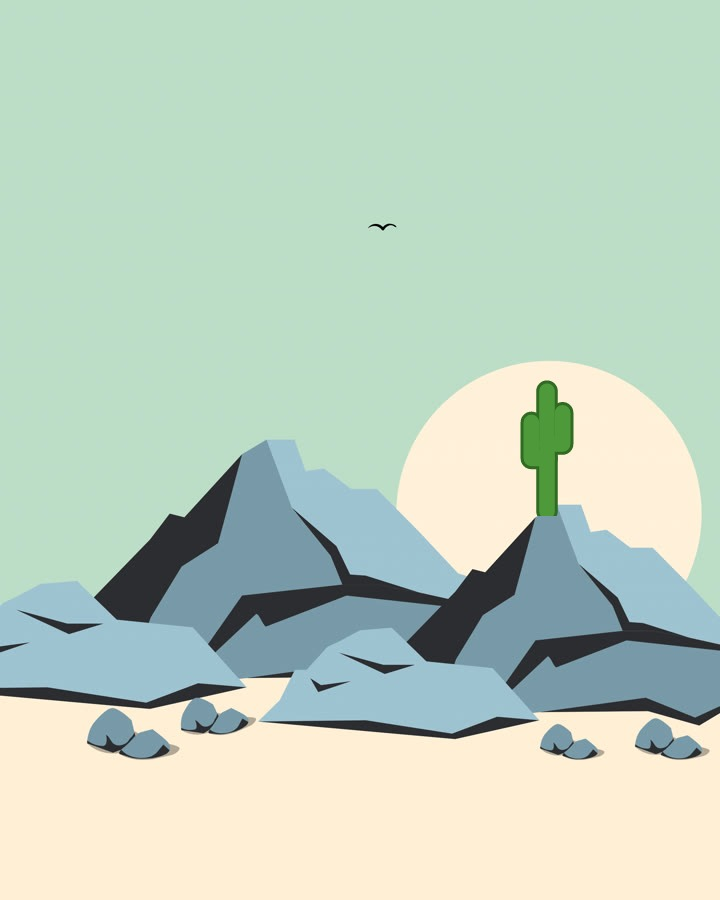
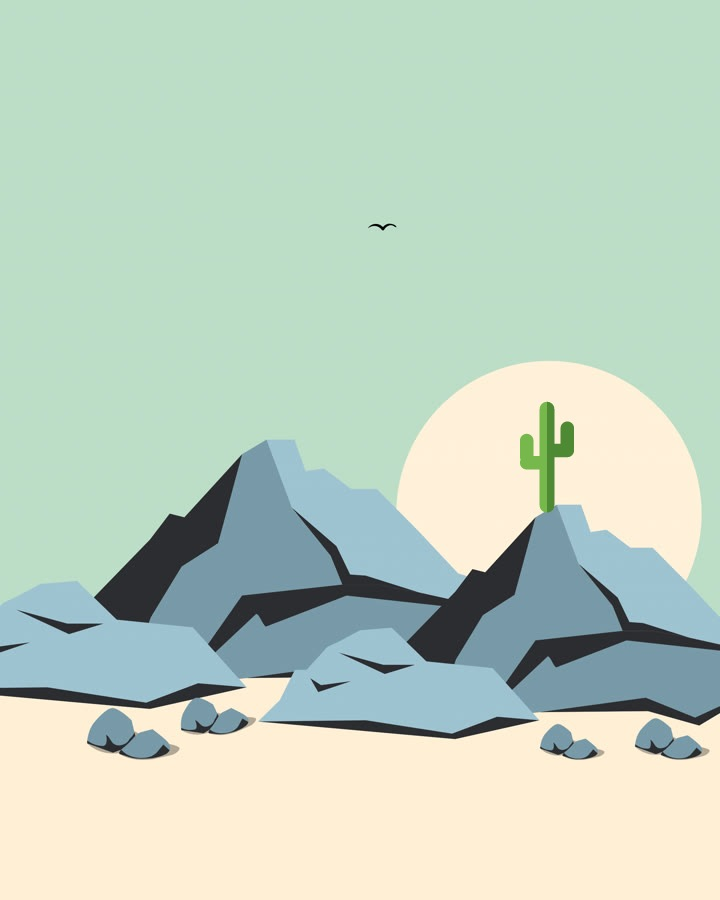
Update audio files, add new puzzle images, and enhance game logic
- Updated multiple audio files with new versions.
- Added new images for puzzles: hedgehogs, house, mountains, room, and valley.
- Improved game logic in PickGame, ConnectDots, OrderSize, Sorting, and diffPairs to prevent repeated selections.
- Enhanced CSS styles for better layout and responsiveness, including safe area insets and grid adjustments.

Changed region(s): [[0.7028, 0.4044, 0.7944, 0.5911]]

diff --git a/src/styles.css b/src/styles.css
@@ -46,6 +46,13 @@ body {
   flex-direction: column;
 }
 
+/* Keep content clear of notches, rounded corners and the home indicator. The
+   fixed gradient on <html> still fills those inset areas edge-to-edge. */
+.app {
+  padding: env(safe-area-inset-top) env(safe-area-inset-right)
+    env(safe-area-inset-bottom) env(safe-area-inset-left);
+}
+
 button {
   font-family: inherit;
   cursor: pointer;
@@ -90,10 +97,12 @@ button:focus-visible {
 }
 .grid {
   display: grid;
-  grid-template-columns: repeat(auto-fit, 150px);
-  justify-content: start;
-  gap: clamp(12px, 2.5vw, 24px);
-  width: min(900px, 100%);
+  /* Cards flex between ~118px (small phones fit 2+ columns) and 150px, filling
+     the row so nothing is left dangling in a lonely column. */
+  grid-template-columns: repeat(auto-fill, minmax(clamp(118px, 42vw, 150px), 1fr));
+  justify-content: center;
+  gap: clamp(10px, 2.5vw, 22px);
+  width: 100%;
 }
 .card {
   --c: var(--purple);
@@ -213,10 +222,15 @@ button:focus-visible {
 /* ---------- GAME BODY ---------- */
 .game-body {
   flex: 1;
+  min-height: 0;
   display: flex;
   flex-direction: column;
   align-items: center;
-  justify-content: center;
+  /* Centre when it fits; if a busy round (e.g. 6 choices) is taller than a short
+     screen, fall back to top-aligned + scroll instead of clipping. */
+  justify-content: safe center;
+  overflow-y: auto;
+  overscroll-behavior: contain;
   gap: clamp(16px, 4vh, 36px);
   padding: 12px;
 }
@@ -517,10 +531,17 @@ button:focus-visible {
 /* Spot-the-difference: two picture-grids side by side. */
 .spot-pair {
   display: flex;
-  gap: clamp(12px, 4vw, 36px);
+  gap: clamp(6px, 2vw, 28px);
   justify-content: center;
-  align-items: center;
-  flex-wrap: wrap;
+  align-items: flex-start;
+  flex-wrap: nowrap; /* keep the two pictures side by side so both are visible */
+  width: 100%;
+}
+/* In the pair, each picture is sized so two fit across the screen (they override
+   the larger single-scene width used by the Puzzle game). */
+.spot-pair .scene {
+  width: clamp(130px, 45vw, 340px);
+  flex: 0 1 auto;
 }
 .scene {
   position: relative;

diff --git a/src/components/PickGame.tsx b/src/components/PickGame.tsx
@@ -1,4 +1,4 @@
-import { ReactNode, useEffect, useState } from 'react'
+import { ReactNode, useEffect, useRef, useState } from 'react'
 import { TopBar } from './TopBar'
 import { DoneScreen } from './DoneScreen'
 import { Reward } from './Reward'
@@ -37,11 +37,26 @@ type Props = {
 export function PickGame({ title, onBack, makeRound, levelOptions, intro }: Props) {
   const [level, setLevel] = useState(0)
   const [index, setIndex] = useState(0)
-  const [round, setRound] = useState<Round>(() => makeRound(levelOptions[0], 0))
+  // Targets already asked this run, so the same one isn't asked twice in a row
+  // of rounds (e.g. "bej, roz, bej"). Resets once every target has been used.
+  const usedAnswers = useRef<Set<string>>(new Set())
+  const [round, setRound] = useState<Round>(() => freshRound(levelOptions[0], 0))
   const [reward, setReward] = useState(false)
   const [wrongKey, setWrongKey] = useState<string | null>(null)
   const options = levelOptions[level]
   const done = index >= ROUNDS_PER_GAME
+
+  // Build a round whose target hasn't been used yet this run (unless the pool is
+  // exhausted, in which case start a fresh cycle).
+  function freshRound(opts: number, lvl: number): Round {
+    let r = makeRound(opts, lvl)
+    for (let i = 0; i < 30 && usedAnswers.current.has(r.answer); i++) {
+      r = makeRound(opts, lvl)
+    }
+    if (usedAnswers.current.has(r.answer)) usedAnswers.current.clear()
+    usedAnswers.current.add(r.answer)
+    return r
+  }
 
   // The full prompt: intro stem + the round's word. Used on entry and whenever
   // the child asks to hear it again. Empty when the game has no speech.
@@ -67,7 +82,7 @@ export function PickGame({ title, onBack, makeRound, levelOptions, intro }: Prop
       setTimeout(() => {
         setReward(false)
         setIndex((i) => i + 1)
-        setRound(makeRound(options, level))
+        setRound(freshRound(options, level))
       }, 1100)
     } else {
       wrongBuzz()
@@ -79,8 +94,9 @@ export function PickGame({ title, onBack, makeRound, levelOptions, intro }: Prop
 
   // Replay the same level.
   function restart() {
+    usedAnswers.current.clear()
     setIndex(0)
-    setRound(makeRound(options, level))
+    setRound(freshRound(options, level))
   }
 
   // Advance to the next (harder) level.
@@ -88,7 +104,7 @@ export function PickGame({ title, onBack, makeRound, levelOptions, intro }: Prop
     const nl = Math.min(level + 1, levelOptions.length - 1)
     setLevel(nl)
     setIndex(0)
-    setRound(makeRound(levelOptions[nl], nl))
+    setRound(freshRound(levelOptions[nl], nl))
   }
 
   return (

diff --git a/src/games/Sorting.tsx b/src/games/Sorting.tsx
@@ -13,8 +13,7 @@ const INTRO = 'Pune fiecare obiect în căsuța potrivită'
 type Item = { id: number; emoji: string; bin: 0 | 1 }
 type Round = { items: Item[]; labels: [string, string] }
 
-function makeRound(n: number): Round {
-  const [a, b] = sample(CATEGORIES, 2)
+function makeRound(n: number, a: string[], b: string[]): Round {
   const half = Math.ceil(n / 2)
   const itemsA = sample(a, half).map((emoji, i) => ({ id: i, emoji, bin: 0 as const }))
   const itemsB = sample(b, n - half).map((emoji, i) => ({ id: half + i, emoji, bin: 1 as const }))
@@ -24,7 +23,8 @@ function makeRound(n: number): Round {
 export function Sorting({ onBack }: GameProps) {
   const [level, setLevel] = useState(0)
   const [index, setIndex] = useState(0)
-  const [round, setRound] = useState<Round>(() => makeRound(LEVELS[0]))
+  const usedPairs = useRef<Set<string>>(new Set())
+  const [round, setRound] = useState<Round>(() => nextRound(LEVELS[0]))
   const [sorted, setSorted] = useState<Set<number>>(new Set())
   const [dragId, setDragId] = useState<number | null>(null)
   const [dragPos, setDragPos] = useState({ x: 0, y: 0 })
@@ -37,8 +37,21 @@ export function Sorting({ onBack }: GameProps) {
     if (!done && index === 0) speak(INTRO)
   }, [round, done])
 
+  // Pick a category pair not used yet this run (resets once pairs run out).
+  function nextRound(n: number): Round {
+    let i = 0, j = 1, key = ''
+    for (let t = 0; t < 25; t++) {
+      ;[i, j] = sample(CATEGORIES.map((_, k) => k), 2)
+      key = i < j ? `${i}-${j}` : `${j}-${i}`
+      if (!usedPairs.current.has(key)) break
+    }
+    if (usedPairs.current.has(key)) usedPairs.current.clear()
+    usedPairs.current.add(key)
+    return makeRound(n, CATEGORIES[i], CATEGORIES[j])
+  }
+
   function newRound(l: number) {
-    setRound(makeRound(LEVELS[l]))
+    setRound(nextRound(LEVELS[l]))
     setSorted(new Set())
     setDragId(null)
   }
@@ -96,6 +109,7 @@ export function Sorting({ onBack }: GameProps) {
   }
 
   function restart() {
+    usedPairs.current.clear()
     setIndex(0)
     newRound(level)
   }

diff --git a/src/games/ConnectDots.tsx b/src/games/ConnectDots.tsx
@@ -1,4 +1,4 @@
-import { useEffect, useState } from 'react'
+import { useEffect, useRef, useState } from 'react'
 import { TopBar } from '../components/TopBar'
 import { DoneScreen } from '../components/DoneScreen'
 import { Reward } from '../components/Reward'
@@ -43,7 +43,8 @@ const SHAPES: Shape[] = [
 export function ConnectDots({ onBack }: GameProps) {
   const [level, setLevel] = useState(0)
   const [index, setIndex] = useState(0)
-  const [shape, setShape] = useState<Shape>(() => pickShape(0))
+  const usedShapes = useRef<Set<string>>(new Set())
+  const [shape, setShape] = useState<Shape>(() => nextShape(0))
   const [next, setNext] = useState(0) // index of the dot to tap next
   const [complete, setComplete] = useState(false)
   const [reward, setReward] = useState(false)
@@ -55,8 +56,17 @@ export function ConnectDots({ onBack }: GameProps) {
     // eslint-disable-next-line react-hooks/exhaustive-deps
   }, [])
 
+  // A shape not drawn yet this run (resets once all eligible are used).
+  function nextShape(l: number): Shape {
+    let s = pickShape(l)
+    for (let i = 0; i < 30 && usedShapes.current.has(s.name); i++) s = pickShape(l)
+    if (usedShapes.current.has(s.name)) usedShapes.current.clear()
+    usedShapes.current.add(s.name)
+    return s
+  }
+
   function newRound(l: number) {
-    setShape(pickShape(l))
+    setShape(nextShape(l))
     setNext(0)
     setComplete(false)
   }
@@ -84,6 +94,7 @@ export function ConnectDots({ onBack }: GameProps) {
   }
 
   function restart() {
+    usedShapes.current.clear()
     setIndex(0)
     newRound(level)
   }

diff --git a/src/games/OrderSize.tsx b/src/games/OrderSize.tsx
@@ -1,4 +1,4 @@
-import { useEffect, useState } from 'react'
+import { useEffect, useRef, useState } from 'react'
 import { TopBar } from '../components/TopBar'
 import { DoneScreen } from '../components/DoneScreen'
 import { Reward } from '../components/Reward'
@@ -45,7 +45,8 @@ export function OrderSize({ onBack }: GameProps) {
   const [level, setLevel] = useState(0)
   const [index, setIndex] = useState(0)
   const [items, setItems] = useState<Item[]>(() => makeItems(LEVELS[0]))
-  const [theme, setTheme] = useState(() => pick(THEMES))
+  const usedThemes = useRef<Set<string>>(new Set())
+  const [theme, setTheme] = useState(() => nextTheme())
   const [next, setNext] = useState(0) // expected rank
   const [reward, setReward] = useState(false)
   const [wrongRank, setWrongRank] = useState<number | null>(null)
@@ -55,9 +56,18 @@ export function OrderSize({ onBack }: GameProps) {
     if (!done && index === 0) speak(INTRO)
   }, [items, done])
 
+  // A theme not used yet this run (resets once all are used).
+  function nextTheme() {
+    let t = pick(THEMES)
+    for (let i = 0; i < 20 && usedThemes.current.has(t.emoji); i++) t = pick(THEMES)
+    if (usedThemes.current.has(t.emoji)) usedThemes.current.clear()
+    usedThemes.current.add(t.emoji)
+    return t
+  }
+
   function newRound(l: number) {
     setItems(makeItems(LEVELS[l]))
-    setTheme(pick(THEMES))
+    setTheme(nextTheme())
     setNext(0)
   }
 
@@ -84,6 +94,7 @@ export function OrderSize({ onBack }: GameProps) {
   }
 
   function restart() {
+    usedThemes.current.clear()
     setIndex(0)
     newRound(level)
   }

diff --git a/src/games/diffPairs.ts b/src/games/diffPairs.ts
@@ -24,7 +24,7 @@ export const DIFF_PAIRS: DiffPair[] = [
       { x: 0.758, y: 0.438, r: 0.11 }, // blue bird on the window
       { x: 0.164, y: 0.82, r: 0.2 }, // pink plant (bottom-left)
       { x: 0.404, y: 0.763, r: 0.1 }, // green pillow on the couch
-      { x: 0.123, y: 0.388, r: 0.09 }, // purple plant (middle-left)
+      { x: 0.123, y: 0.46, r: 0.09, ry: 0.18 }, // purple plant + the flower just below (tall)
     ],
   },
   {
@@ -32,7 +32,7 @@ export const DIFF_PAIRS: DiffPair[] = [
     b: '/puzzles/diff/mountains_b.jpg',
     diffs: [
       { x: 0.406, y: 0.248, r: 0.13 }, // flock of birds (top): 5 on the left, 2 on the right
-      { x: 0.76, y: 0.48, r: 0.11 }, // cactus standing over the sun
+      { x: 0.76, y: 0.5, r: 0.11 }, // cactus standing over the sun
     ],
   },
 ]